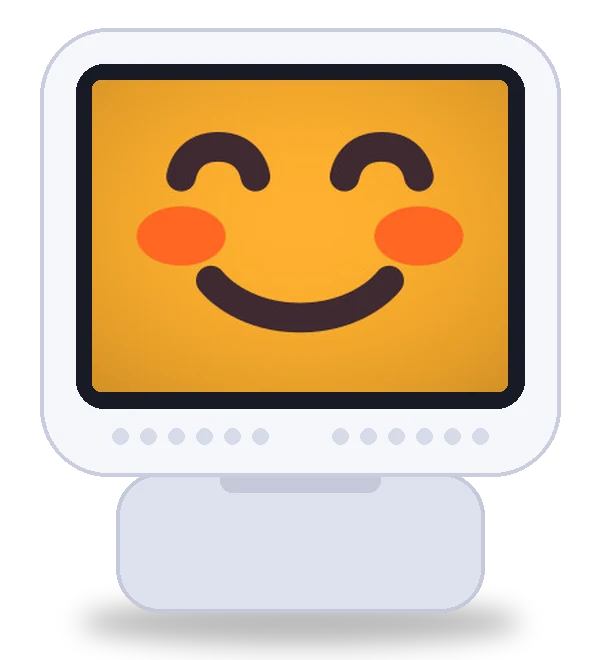
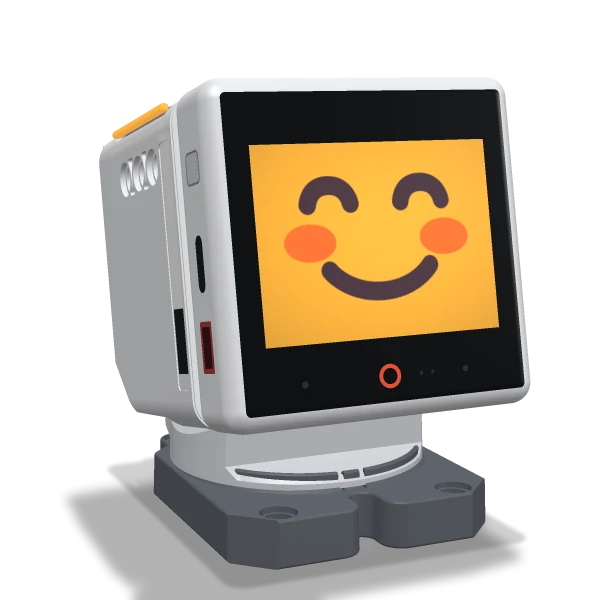
s.w42.eu, w42.eu: the robots rendered in 3D (M5Stack's structure files) with real screens

diff --git a/s.html b/s.html
@@ -72,12 +72,12 @@
   humans yet.</p>
 
   <div class="robots">
-    <figure><img src="/s/robot-pet.webp" width="300" height="330" alt="The robot running the pet: a happy orange face"><figcaption>Pet</figcaption></figure>
-    <figure><img src="/s/robot-raw.webp" width="300" height="330" alt="The robot running Raw data: its face and a speech bubble"><figcaption>Raw data</figcaption></figure>
-    <figure><img src="/s/robot-focus.webp" width="300" height="330" alt="The robot running Focus: a red ring, 17:42 left, its LEDs counting down"><figcaption>Focus</figcaption></figure>
-    <figure><img src="/s/robot-qr.webp" width="300" height="330" alt="The robot's QR screen: scan it to pair a phone"><figcaption>QR to pair</figcaption></figure>
+    <figure><img src="/s/robot-pet.webp" width="600" height="600" alt="The robot running the pet: a happy orange face"><figcaption>Pet</figcaption></figure>
+    <figure><img src="/s/robot-raw.webp" width="600" height="600" alt="The robot running Raw data: its face and a speech bubble"><figcaption>Raw data</figcaption></figure>
+    <figure><img src="/s/robot-focus.webp" width="600" height="600" alt="The robot running Focus: a red ring, 17:42 left, its LEDs counting down"><figcaption>Focus</figcaption></figure>
+    <figure><img src="/s/robot-qr.webp" width="600" height="600" alt="The robot's QR screen: scan it to pair a phone"><figcaption>QR to pair</figcaption></figure>
   </div>
-  <p class="note">The robot as drawn here, with real screens from it.</p>
+  <p class="note">The robot rendered in 3D from M5Stack's StackChan structure files, with real screens from it.</p>
 
   <div class="cards">
     <section class="card">

diff --git a/index.html b/index.html
@@ -57,9 +57,9 @@
     <section class="card">
       <h2><a href="https://s.w42.eu">s.w42.eu</a><span class="tag">proof of concept</span></h2>
       <div class="robots">
-        <img src="/s/robot-pet.webp" width="300" height="330" alt="A Stackchan robot running the pet: a happy orange face">
-        <img src="/s/robot-focus.webp" width="300" height="330" alt="A Stackchan robot running Focus: a red ring and 17:42 left, its LEDs counting down">
-        <img src="/s/robot-qr.webp" width="300" height="330" alt="A Stackchan robot showing the QR code a phone scans to pair with it">
+        <img src="/s/robot-pet.webp" width="600" height="600" alt="A Stackchan robot running the pet: a happy orange face">
+        <img src="/s/robot-focus.webp" width="600" height="600" alt="A Stackchan robot running Focus: a red ring and 17:42 left, its LEDs counting down">
+        <img src="/s/robot-qr.webp" width="600" height="600" alt="A Stackchan robot showing the QR code a phone scans to pair with it">
       </div>
       <p>M5Stack Stackchan robots in Embody Mode: the robot is a light client of apps you choose
       and approve. Set it up on sm.w42.eu with one click over USB, pair a phone by the QR code on

diff --git a/README.md b/README.md
@@ -9,7 +9,8 @@ sm.w42.eu, their apps under sa.w42.eu, with the robot and screenshots of the app
 and [mcbot.w42.eu](https://mcbot.w42.eu), the Minecraft robots' page, with a screenshot of their
 dashboard (`mcbot/*.png`: small in the page, the full size on click, by CSS alone).
 
-The robot pictures in `s/` are drawings of a Stackchan with real screens from the robot.
+The robot pictures in `s/` are 3D renders of the robot (M5Stack's StackChan structure files, MIT,
+and photos of it) with real screens from the robot.
 
 One Go binary with the pages embedded (`index.html`, `s.html`, `mcbot.html` and their images), no
 dependencies. The request's host picks the page: `s.w42.eu` gets `s.html`, `mcbot.w42.eu`
